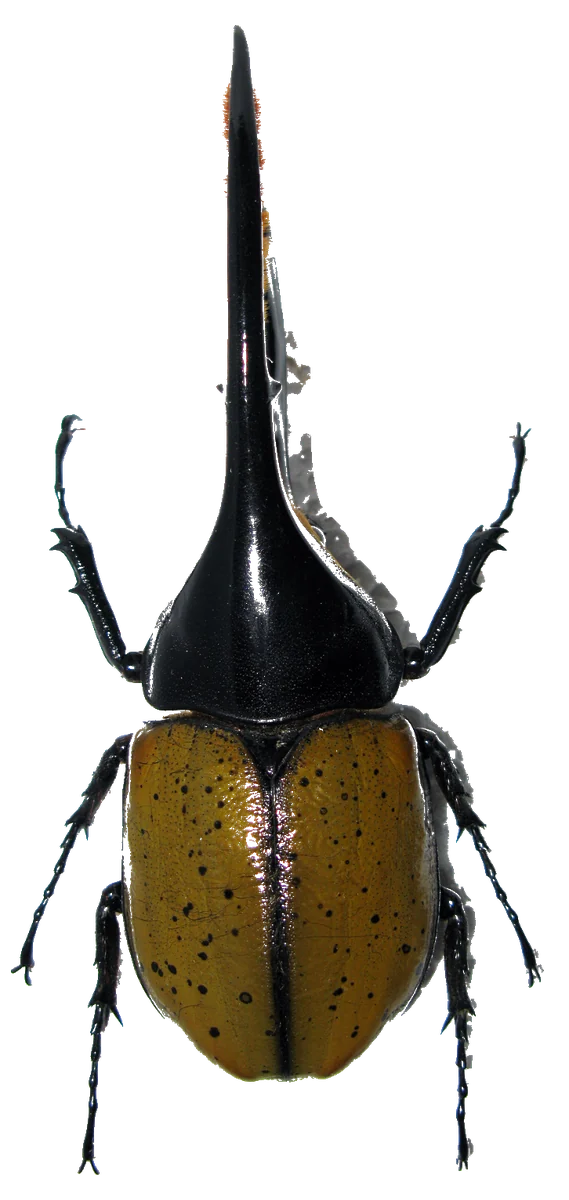
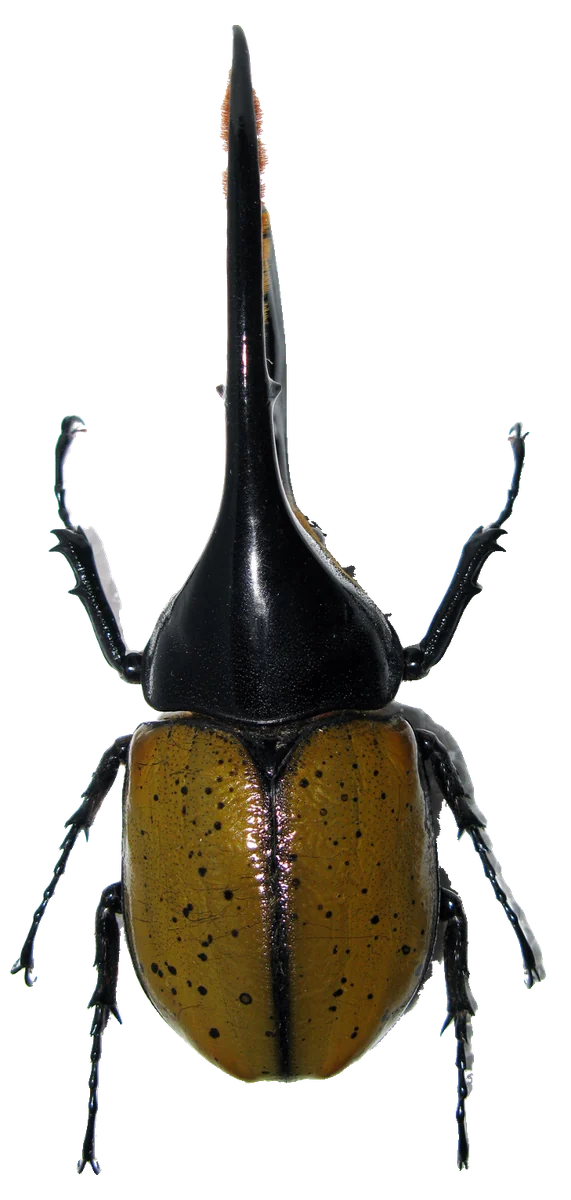
fix(images): truncatus cut out of the group photo, lichyi shadow removed
- tools/cutout: new manifest options "shadow" (dark grey mount shadow, kept off
  body parts rembg recognises, e.g. a horn in half shade), "gloss", "crop"/
  "width" (one specimen from a group photo, fetched larger) and "erase" (pins).
- C. truncatus: male cut out of Sq10's 'Cyclommatus cropped.jpg' (CC BY 4.0)
  instead of the three-species group photo; new Commons source entry
  (source count 141 -> 142 in the tests).
- D. h. lichyi styrofoam photo: shadow gone, cephalic horn and horn gloss kept.
- Anchor jumps to the end of a section stop before the next section covers it.
- README image TODO: finae identity confirmed (ja description 'ペレンメタリ'),
  Commons re-searched without new photos for the remaining taxa.

diff --git a/src/main/resources/static/js/main.js b/src/main/resources/static/js/main.js
@@ -360,10 +360,17 @@
     for (var i = 0; scenes[i] !== scene; i++) y += scenes[i].offsetHeight;
     return y + (el === scene ? 0 : el.getBoundingClientRect().top - scene.getBoundingClientRect().top);
   }
-  // Scrolls so that el sits just below the fixed header.
+  // Scrolls so that el sits just below the fixed header. Something near the end of a section stops where that
+  // section is still uncovered (its bottom at the bottom of the screen), not under the next one.
   function scrollToEl(el, smooth) {
     var pad = parseFloat(getComputedStyle(document.documentElement).scrollPaddingTop) || 0;
-    window.scrollTo({ top: Math.max(0, flowTop(el) - pad), behavior: smooth && !reduceMotion ? "smooth" : "auto" });
+    var y = flowTop(el) - pad;
+    var scene = scenes.filter(function (s) { return s.contains(el) && s !== el; })[0];
+    if (scene) {
+      var start = flowTop(scene);
+      y = Math.max(start - pad, Math.min(y, start + scene.offsetHeight - window.innerHeight));
+    }
+    window.scrollTo({ top: Math.max(0, y), behavior: smooth && !reduceMotion ? "smooth" : "auto" });
   }
   function initScenes() {
     var main = document.getElementById("main");

diff --git a/src/test/kotlin/com/example/beetlepedia/api/TaxonomyApiTests.kt b/src/test/kotlin/com/example/beetlepedia/api/TaxonomyApiTests.kt
@@ -73,7 +73,7 @@ class TaxonomyApiTests(@Autowired val mvc: MockMvc) {
 			jsonPath("$.genera[*].id", contains("goliathus", "cyclommatus", "dynastes"))
 			jsonPath("$.taxa", hasSize<Any>(28))
 			jsonPath("$.baseTaxonomy[0].name") { value("Animalia") }
-			jsonPath("$.sources.length()") { value(141) }
+			jsonPath("$.sources.length()") { value(142) }
 			jsonPath("$.areas.length()") { value(13) }
 			jsonPath("$.countries.length()") { value(61) }
 			jsonPath("$.maps.length()") { value(3) }

diff --git a/src/test/kotlin/com/example/beetlepedia/seed/SeedLoaderTests.kt b/src/test/kotlin/com/example/beetlepedia/seed/SeedLoaderTests.kt
@@ -53,7 +53,7 @@ class SeedLoaderTests(
 		assertEquals(5, taxa.findAllByGenusIdOrderBySortOrder("goliathus").size)
 		assertEquals(10, taxa.findAllByGenusIdOrderBySortOrder("cyclommatus").size)
 		assertEquals(13, taxa.findAllBySpeciesSciOrderBySortOrder("Dynastes hercules").size)
-		assertEquals(141, sources.count())
+		assertEquals(142, sources.count())
 		assertEquals(3, maps.count())
 		assertEquals(13, areas.count())
 		assertEquals(61, countries.count())

diff --git a/tools/cutout/cutout.py b/tools/cutout/cutout.py
@@ -5,7 +5,12 @@
 
 Each manifest entry: {"file": <Wikimedia Commons file>, "out": <name>.webp, optional "rotate" (degrees,
 counter-clockwise), "method" ("combo" | "rembg" | "colour"), "de" ([low, high] colour-distance ramp), "floor"
-(colour distance below which a pixel is always background: removes shadows on the mount)}.
+(colour distance below which a pixel is always background: removes shadows on the mount), "shadow" (removes a
+darker grey cast shadow, see drop_grey_shadow), "gloss" (true: fill background-coloured highlights enclosed by the
+body even with "floor"; only for beetles without open space between mandibles or horns), "crop" ([x0, y0, x1, y1]
+as fractions: cut one specimen out of a group photo; record that in the image's alt text) and "width" (px of the
+original to fetch, default WORK; use more with "crop" so the cut-out specimen keeps enough pixels), "erase" (list of
+[x0, y0, x1, y1] boxes, as fractions of the (cropped) photo, cleared at the end: pins and wires)}.
 
 The photos are specimens on a plain light background, so two masks are combined:
   * rembg (a neural salient-object model) finds the body reliably but tends to drop thin legs and antenna tips;
@@ -42,11 +47,12 @@ FINAL = 1200     # long side of the published cut-out
 UA = "BeetlepediaCutout/1.0 (https://github.com/Sujemocchi; kimdongchan9973@gmail.com)"
 
 
-def fetch(file: str) -> Image.Image:
+def fetch(file: str, width: int = WORK) -> Image.Image:
     ORIG_DIR.mkdir(parents=True, exist_ok=True)
-    cache = ORIG_DIR / (urllib.parse.quote(file.replace(" ", "_"), safe="") + ".bin")
+    suffix = "" if width == WORK else f".w{width}"
+    cache = ORIG_DIR / (urllib.parse.quote(file.replace(" ", "_"), safe="") + suffix + ".bin")
     if not cache.exists():
-        url = "https://commons.wikimedia.org/wiki/Special:FilePath/" + urllib.parse.quote(file.replace(" ", "_")) + f"?width={WORK}"
+        url = "https://commons.wikimedia.org/wiki/Special:FilePath/" + urllib.parse.quote(file.replace(" ", "_")) + f"?width={width}"
         req = urllib.request.Request(url, headers={"User-Agent": UA})
         with urllib.request.urlopen(req, timeout=120) as r:
             cache.write_bytes(r.read())
@@ -97,7 +103,10 @@ def rembg_alpha(im: Image.Image) -> np.ndarray:
 
 
 def cut(entry: dict) -> tuple[Image.Image, Image.Image]:
-    im = fetch(entry["file"])
+    im = fetch(entry["file"], entry.get("width", WORK))
+    if entry.get("crop"):
+        x0, y0, x1, y1 = entry["crop"]
+        im = im.crop((round(x0 * im.width), round(y0 * im.height), round(x1 * im.width), round(y1 * im.height)))
     if entry.get("rotate"):
         im = im.rotate(entry["rotate"], expand=True, fillcolor=(255, 255, 255))
     scale = WORK / max(im.size)
@@ -129,6 +138,8 @@ def cut(entry: dict) -> tuple[Image.Image, Image.Image]:
         if entry.get("floor"):
             # Shadow on the mount: neutral and only a little darker than the background, unlike any body part.
             alpha = np.where(de < entry["floor"], 0, alpha)
+        if entry.get("shadow"):
+            alpha = drop_grey_shadow(rgb, de, alpha, entry["shadow"], a_nn)
         solid = alpha > 0.5
         # Keep the beetle and anything touching it; drop specks.
         lab, n = ndimage.label(solid)
@@ -148,11 +159,16 @@ def cut(entry: dict) -> tuple[Image.Image, Image.Image]:
         holes = filled & ~solid
         if a_nn is not None:
             holes &= a_nn > 0.5  # pale body parts enclosed by a darker outline, not the gaps between legs and body
-        if entry.get("floor"):
+        if entry.get("floor") and not entry.get("gloss"):
             holes &= de >= entry["floor"]  # nor background-coloured space enclosed by the mandibles
         alpha = np.where(holes, 1.0, alpha)
         filled = solid | holes
         alpha = np.where(ndimage.binary_dilation(filled, iterations=2), alpha, 0)
+
+    # Hand-placed boxes for things no mask can tell from the beetle (a mounting pin).
+    for x0, y0, x1, y1 in entry.get("erase", []):
+        h, w = alpha.shape
+        alpha[round(y0 * h):round(y1 * h), round(x0 * w):round(x1 * w)] = 0
 
     # Un-mix the background from semi-transparent edge pixels (removes the white halo on dark pages).
     a3 = alpha[..., None]
@@ -170,6 +186,37 @@ def cut(entry: dict) -> tuple[Image.Image, Image.Image]:
     if s < 1:
         out = shrink(out, (round(out.width * s), round(out.height * s)))
     return im, out
+
+
+def drop_grey_shadow(rgb: np.ndarray, de: np.ndarray, alpha: np.ndarray, opt: dict, a_nn: np.ndarray | None = None) -> np.ndarray:
+    """Remove a cast shadow that is too dark for "floor": thick, neutral mid-grey blobs that touch the background.
+
+    opt: {"L": [low, high] lightness, "C": max chroma, "open": opening radius in px, optional "grow": [min L, px]}.
+    The opening drops the thin anti-aliased rim of dark body parts, and requiring contact with the background keeps
+    gloss inside the body. "grow" then follows the shadow into its thin, darker fringe: up to px steps, only through
+    neutral pixels at least min L light (the black body stays below it).
+    """
+    lab = srgb_to_lab(rgb)
+    lo, hi = opt.get("L", [40, 97])
+    grey = (lab[..., 0] >= lo) & (lab[..., 0] <= hi) & (np.hypot(lab[..., 1], lab[..., 2]) < opt.get("C", 8))
+    r = opt.get("open", 4)
+    blobs = ndimage.binary_opening(grey, iterations=r)
+    ids, n = ndimage.label(blobs)
+    if not n:
+        return alpha
+    background = ndimage.binary_dilation(de < 6, iterations=2)
+    hit = np.unique(ids[background & blobs])
+    shadow = np.isin(ids, hit[hit > 0])
+    # Grow back over the rim the opening removed, but never into dark body pixels.
+    shadow = ndimage.binary_dilation(shadow, iterations=r) & (lab[..., 0] >= lo * 0.75)
+    if opt.get("grow"):
+        floor_l, steps = opt["grow"]
+        fringe = (lab[..., 0] >= floor_l) & (np.hypot(lab[..., 1], lab[..., 2]) < opt.get("C", 8))
+        shadow = ndimage.binary_dilation(shadow, iterations=steps, mask=fringe | shadow)
+    if a_nn is not None:
+        # Dark grey body parts (a glossy horn in half shade) fall in the same range; rembg tells them apart.
+        shadow &= a_nn < 0.5
+    return np.where(shadow, 0, alpha)
 
 
 def shrink(im: Image.Image, size: tuple[int, int]) -> Image.Image:

diff --git a/README.md b/README.md
@@ -202,7 +202,7 @@ tools/cutout/.venv/Scripts/python tools/cutout/cutout.py          # manifest.jso
 tools/cutout/.venv/Scripts/python tools/cutout/cutout.py elapus   # 이름에 elapus가 들어간 항목만
 ```
 - 신경망(rembg `isnet-general-use`) 마스크와, 배경색 모델과의 색 차이 마스크를 합칩니다. 신경망이 놓치는 가는 다리·더듬이 끝을 색 차이 마스크가 살립니다.
-- `manifest.json` 항목별로 `rotate`(회전), `floor`(배경으로 볼 색 차이 하한: 어두운 표본·받침 그림자용), `de`(색 차이 범위)를 조절합니다.
+- `manifest.json` 항목별로 `rotate`(회전), `floor`(배경으로 볼 색 차이 하한: 어두운 표본·받침 그림자용), `de`(색 차이 범위), `method`(`rembg`만 쓰면 라벨·그림자를 덜 집음), `shadow`(진한 회색 받침 그림자 제거), `gloss`(몸 안의 흰 광택 메우기), `crop`·`width`(단체 사진에서 한 개체 잘라 내기), `erase`(핀 등 지울 상자)를 조절합니다. 자세한 뜻은 `cutout.py` 머리 주석에 있습니다.
 - `tools/cutout/.review/`의 검토 이미지(원본 | 어두운 배경 | 자홍색 배경)로 다리·발톱·더듬이·큰턱 톱니가 남았는지, 흰 테두리나 그림자가 없는지 반드시 눈으로 확인합니다.
 - 회전한 사진(Udo Schmidt의 *D. h. lichyi* 수컷·암컷)은 누끼만 회전되어 있으므로, 누끼를 불러오지 못할 때 보이는 원본은 옆으로 누워 있습니다.
 
@@ -218,12 +218,12 @@ tools/cutout/.venv/Scripts/python tools/cutout/silhouette.py   # data/silhouette
 - 셰이딩은 같은 범위의 누끼를 흑백·저대비로 만든 이미지를 윤곽 안에 `soft-light`로 겹친 것이라, 분류군 색(`currentColor`)이 그대로 유지됩니다.
 
 ### TODO: 이미지
-- 사진 없음: *C. monguilloni*, *C. chewi*, *C. lunifer*, *D. h. reidi*, *baudrii*, *occidentalis*, *tuxtlaensis*, *trinidadensis*, *bleuzeni*, *paschoali*, *morishimai*, *takakuwai*.
-- *C. metallifer finae*의 `Ssp finae.JPG`는 파일명과 일본어 위키백과 캡션은 펠렝(finae)인데 Commons 설명란에는 *aenomicans*로 적혀 있습니다. 확인이 필요합니다.
-- *C. truncatus*의 사진은 세 종을 함께 찍은 단체 사진입니다. 단독 등면 사진이 Commons에 없어 그대로 둡니다(잘라 낸 사진이 있으면 교체하기).
-- 등면 표본 사진을 찾지 못해 기존 사진을 유지: *D. h. hercules*(야생·사육 개체), *D. h. septentrionalis*(야생 암컷·수컷). *D. h. ecuatorianus*는 수컷 등면 사진이 없어 암컷 등면 사진이 대표입니다.
+- 사진 없음: *C. monguilloni*, *C. chewi*, *C. lunifer*, *D. h. reidi*, *baudrii*, *occidentalis*, *tuxtlaensis*, *trinidadensis*, *bleuzeni*, *paschoali*, *morishimai*, *takakuwai*. (2026-10-07 재검색: Commons의 관련 파일 약 600개 제목과 분류 카테고리를 다시 확인했으나 쓸 수 있는 등면 표본 사진이 없음)
+- 등면 표본 사진을 찾지 못해 기존 사진을 유지: *D. h. hercules*(야생·사육 개체), *D. h. septentrionalis*(야생 암컷·수컷). *D. h. ecuatorianus*는 수컷 등면 사진이 없어 암컷 등면 사진이 대표입니다(MHNT 수컷 사진은 옆모습).
+- *C. truncatus*는 세 종을 함께 찍은 표본 사진(`Cyclommatus cropped.jpg`, CC BY 4.0)에서 수컷만 잘라 누끼를 만들었습니다(`tools/cutout`의 `crop`, 핀은 `erase`로 지움). 단독 등면 사진이 Commons에 올라오면 교체하기.
 - 머리가 옆을 향한 *C. m. metallifer* 수컷(Udo Schmidt)은 아종이 달라 쓰지 않았습니다. *D. h. lichyi*의 Udo Schmidt 사진은 누끼 단계에서 회전해 씁니다.
-- *D. h. lichyi* 두 번째 사진(Anaxibia, 스티로폼 위)은 뿔 옆에 받침 그림자 조각이 조금 남아 있습니다.
+- *D. h. lichyi* 두 번째 사진(Anaxibia, 스티로폼 위)의 받침 그림자는 `shadow` 옵션으로 지웠습니다. 그늘진 머리뿔은 그림자와 밝기가 같아 rembg 마스크로 구분해 남깁니다.
+- 확인 완료: *C. metallifer finae*의 `Ssp finae.JPG`는 Commons 영어 설명이 *aenomicans*로 되어 있지만, 같은 날 올린 `Ssp aenomicans.JPG`의 설명이 그대로 복사된 것이고 일본어 설명이 「ペレンメタリ」(펠렝 메탈리퍼 = finae)라서 finae로 봅니다.
 - *G. orientalis*의 대표 사진은 'meleagris' 형 표본입니다(이 사이트에서는 orientalis와 거의 같은 것으로 봅니다).
 - *C. speciosus*의 RBINS 사진 3장은 종 수준 동정이며 아종(원명아종) 확인은 되지 않았습니다.
 
